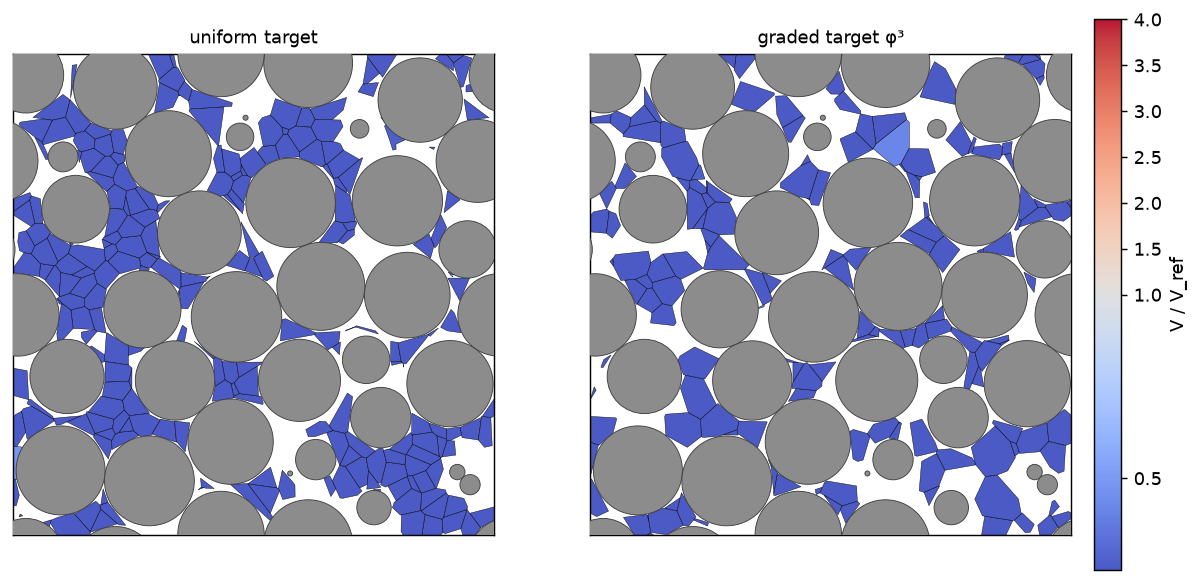
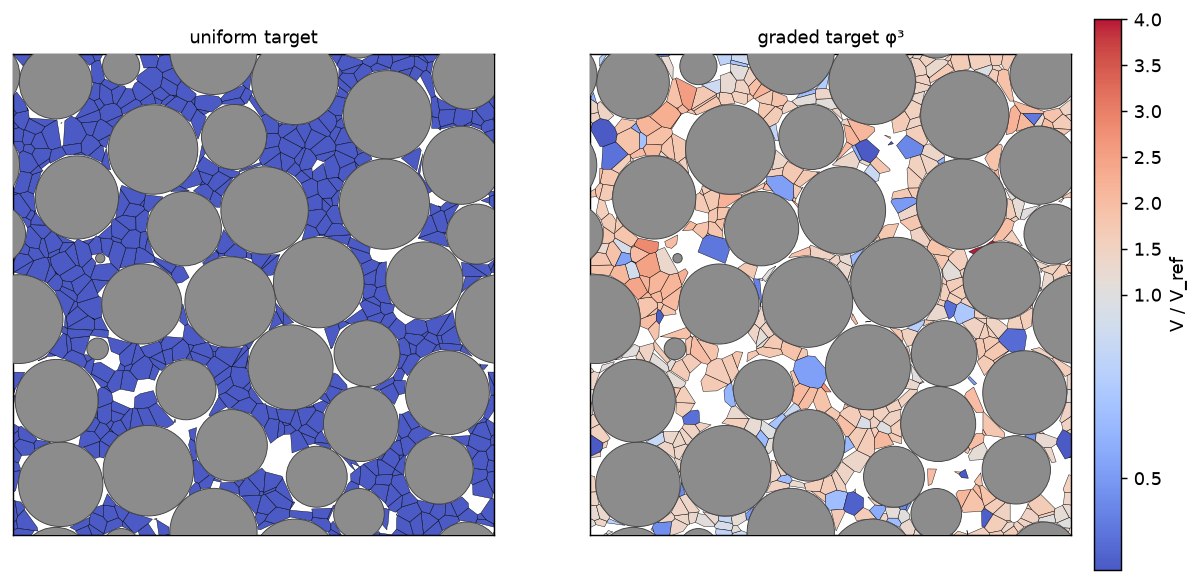
pore-mesh-voronoi: fill the cross-section (inflation-layer seeding + periodic tiling)
The white patches in the cross-section were the near-wall band, not missing cells or periodicity:
with a uniform seed cloud the thin near-wall fluid is under-sampled and the flat-facet SDF clip
recedes from the curved spheres, leaving a rim (coverage ~72% of the fluid cross-section at the
center plane). Fix, both pure-Python:
- seed_pore_space / seed_wall_layer: add an inflation layer (a shell of seeds hugging every sphere)
  to the bulk cloud, so the near-wall band is meshed — raw-stage coverage rises to ~92%.
- tile_periodic: replicate slice polygons by ±L so cells straddling the box faces tile both sides
  (used at the center plane, so no z-wrap).
Raw stages (1, 3) now fill cleanly up to the walls; the relaxed stages (2, 4) still show throat
collapse (documented open issue 1). Re-frozen; index.ipynb regenerated.

diff --git a/src/peclet_examples/pore_mesh.py b/src/peclet_examples/pore_mesh.py
@@ -97,6 +97,44 @@ def seed_interstitial(centres, radii, L, n, margin=0.02, graded=False, seed=1, b
     return np.ascontiguousarray(np.vstack(keep)[:n], dtype=np.float64)
 
 
+def seed_wall_layer(centres, radii, L, per_sphere=100, eps=0.03, seed=7):
+    """Inflation-layer seeds: `per_sphere` points on each sphere surface pushed out by `eps` into the
+    fluid, kept only where they are actually in the fluid (not buried in a neighbouring sphere). These
+    give the near-wall cells that let the SDF-clipped Voronoi cells hug the curved walls."""
+    rng = np.random.default_rng(seed)
+    pts = []
+    for c, r in zip(centres, radii):
+        u = rng.normal(size=(per_sphere, 3))
+        u /= np.linalg.norm(u, axis=1, keepdims=True)
+        q = (c + u * (r + eps)) % L
+        pts.append(q[union_sdf(q, centres, radii, L) > 0.4 * eps])
+    return np.vstack(pts)
+
+
+def seed_pore_space(centres, radii, L, n_bulk, graded=False, wall_per=100, wall_eps=0.03, seed=1):
+    """Interstitial seeds = a bulk cloud (uniform, or density ∝ 1/V_ref if graded) PLUS an inflation
+    layer hugging every sphere, so the thin near-wall fluid is meshed and the cross-section fills up to
+    the walls (a uniform bulk alone under-samples the near-wall band and the cells recede from the
+    curved surface). Returns (N,3) float64."""
+    bulk = seed_interstitial(centres, radii, L, n_bulk, margin=wall_eps, graded=graded, seed=seed)
+    wall = seed_wall_layer(centres, radii, L, wall_per, wall_eps, seed=seed + 100)
+    return np.ascontiguousarray(np.vstack([bulk, wall]))
+
+
+def tile_periodic(polys, vals, L):
+    """Replicate each slice polygon by ±L in x and y and keep the images that intersect the [0,L]²
+    window, so cells whose seed sits near a box face — and which therefore straddle the periodic
+    boundary — tile both sides instead of leaving a gap. Use at the center plane to avoid z-wrap."""
+    op, ov = [], []
+    for poly, v in zip(polys, vals):
+        for sx in (-L, 0, L):
+            for sy in (-L, 0, L):
+                q = poly + (sx, sy)
+                if q[:, 0].max() > 0 and q[:, 0].min() < L and q[:, 1].max() > 0 and q[:, 1].min() < L:
+                    op.append(q); ov.append(v)
+    return op, np.asarray(ov)
+
+
 def slice_cells(cells, z0, values=None):
     """z=z0 cross-section of the polyhedra returned by peclet.voro.sdf_voronoi_cells (points + per-cell
     face lists): intersect each cell's face edges with the plane, order the crossings into a convex